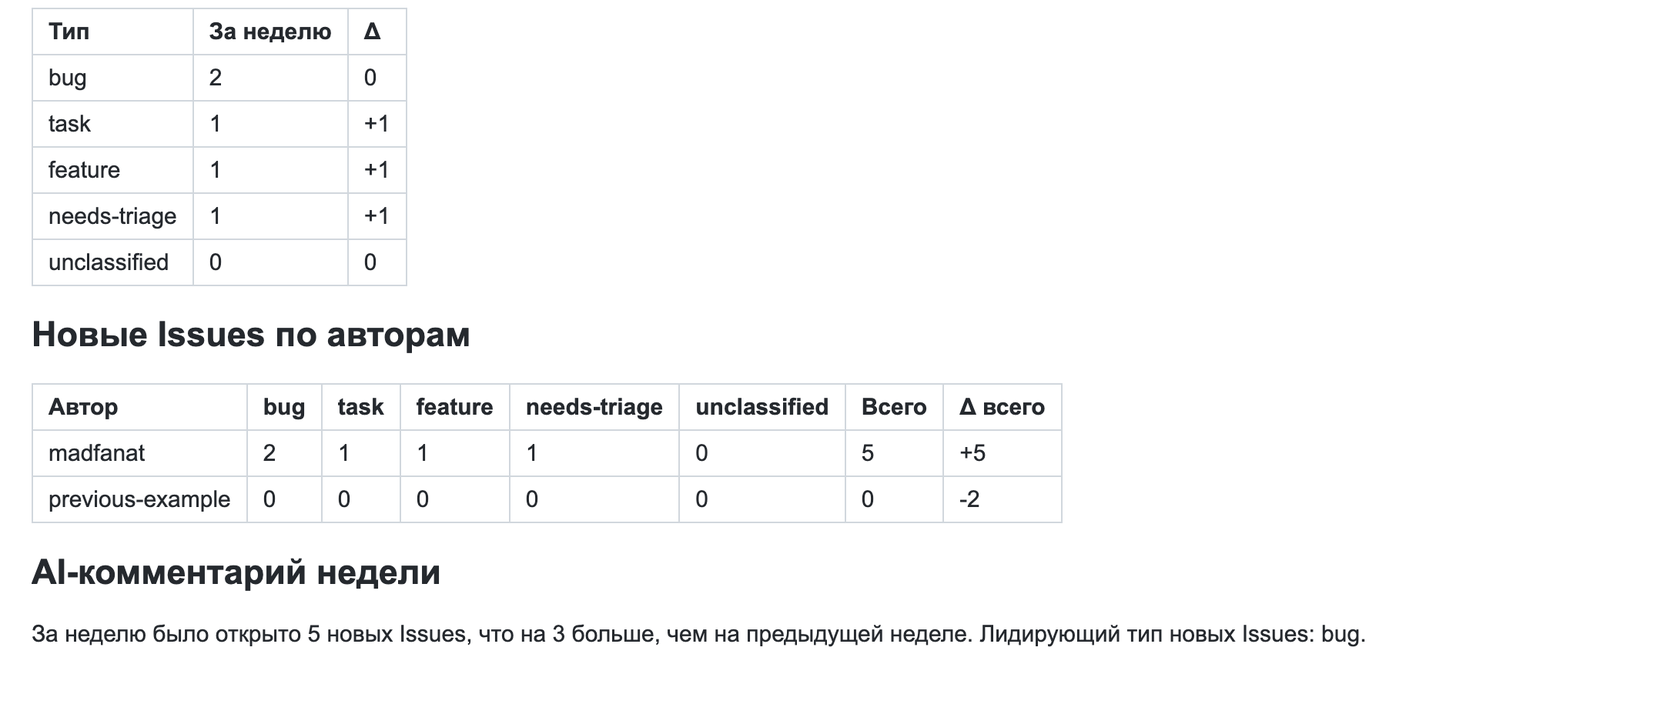
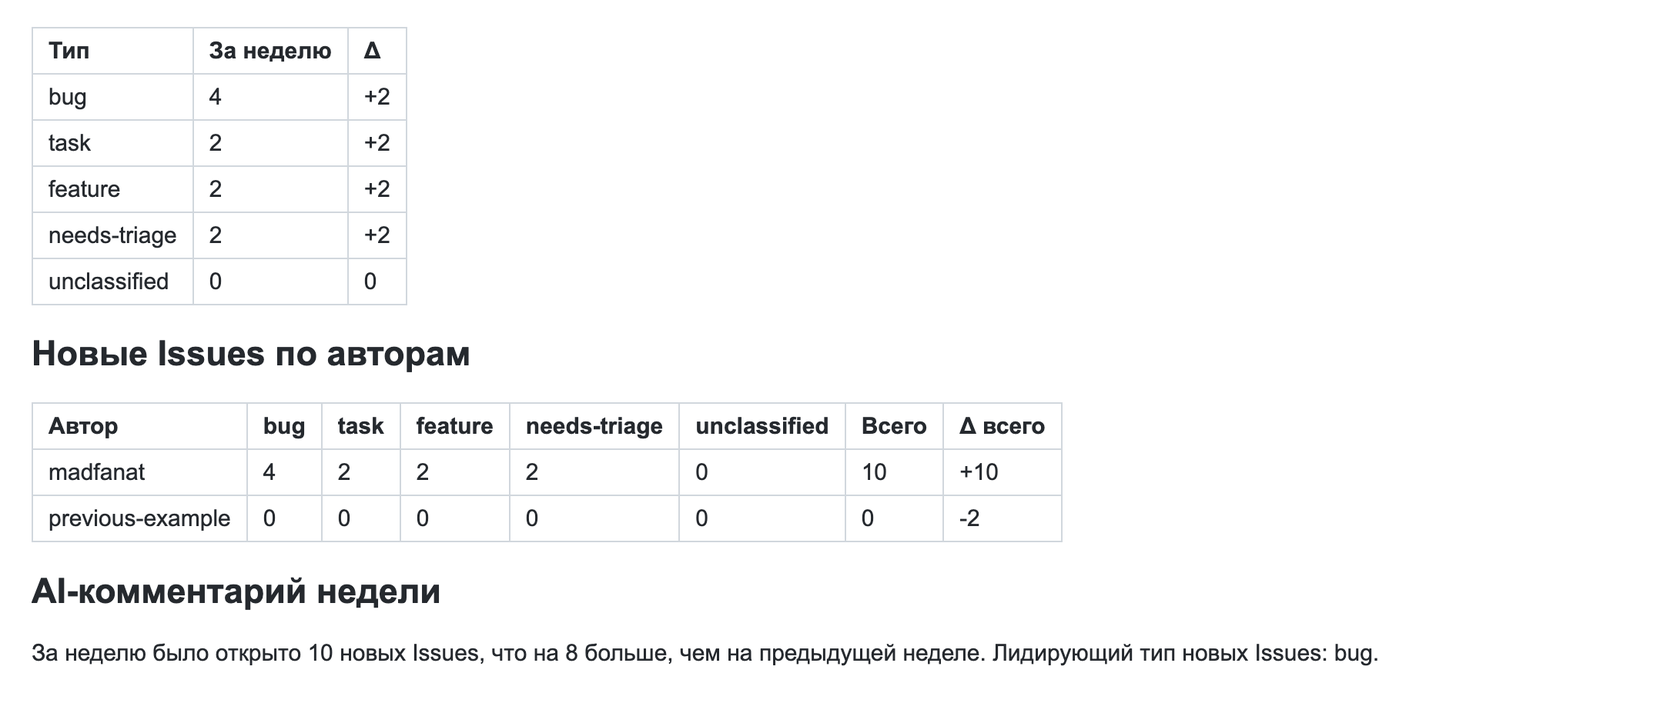
Verify published Issue triage and sandbox autofix

diff --git a/practices/practice_07.2/defence/README.md b/practices/practice_07.2/defence/README.md
@@ -1,49 +1,43 @@
 # Защита лабораторной 7.2
 
-[План работы](plan.md) · [Экспорты и подключение](../README.md#решение) · [Журнал контрольной проверки](evidence/verification.json)
+[План работы](plan.md) · [Экспорты и подключение](../README.md#решение) · [Журнал учебных запусков](evidence/hosted-verification.json)
 
-## Запуски на учебном n8n
-
-Классификатор опубликован и использует `openai/gpt-4.1-mini` через учебный VseLLM. Контрольный сценарий вызвал его через Execute Sub-workflow и получил `bug`, `task`, `feature` с уверенностью `0.9` и `unknown` с `0.7`. Structured Output Parser восстанавливает формат ответа при невалидном JSON. [Выход классификатора](evidence/hosted-classifier-8984-return-type-and-confidence.png) · [Журнал запусков](evidence/hosted-verification.json).
-
-Недельный отчёт опубликован с cron `0 9 * * MON` в `Europe/Moscow`. Execution 8988 выполнил четыре запроса к GitHub, сохранил текущую неделю, рассчитал Δ к помеченной тестовой строке и отправил письмо во входящие Gmail. За период открыто 5 Issues, Δ равна **+3**, самый частый тип — `bug` (2). [Execution 8988](https://n8n-itmo.cyrweb.ru/workflow/l3q27BriiWwP1aFq/executions/8988) · [Группировка](evidence/hosted-weekly-report-8988-group-by-type-and-author.png) · [Две строки Data Table](evidence/hosted-practice_072_weekly_stats.png) · [Письмо](evidence/hosted-gmail-report.png) · [AI-комментарий в письме](evidence/hosted-gmail-annotation.png).
+Все четыре сценария опубликованы на учебном n8n. Классификатор и автофикс используют `openai/gpt-4.1-mini` через VseLLM. GitHub отправляет подписанные события прямо на учебный webhook. Лейблы и ответы записываются через GitHub API. [Обработчик Issues](https://n8n-itmo.cyrweb.ru/workflow/L1cE4SoKVWNIb9iN) · [Классификатор](https://n8n-itmo.cyrweb.ru/workflow/mSEPpLZhCzCr6qxc) · [Недельный отчёт](https://n8n-itmo.cyrweb.ru/workflow/l3q27BriiWwP1aFq) · [Автофикс](https://n8n-itmo.cyrweb.ru/workflow/wn2DdRtmluI8DH5T).
 
 ## Девять критериев
 
 | № | Баллы | Что показать |
 | --- | ---: | --- |
-| 1 | 2 | GitHub Issues [№12 bug](https://github.com/madfanat/ITMOv2/issues/12), [№13 task](https://github.com/madfanat/ITMOv2/issues/13), [№14 feature](https://github.com/madfanat/ITMOv2/issues/14). В каждом один лейбл категории и один ответ. [Execution 11](evidence/issues-execution-11.png) · [Execution 13](evidence/issues-execution-13.png) · [Execution 15](evidence/issues-execution-15.png). |
-| 2 | 1 | У Issue [№15](https://github.com/madfanat/ITMOv2/issues/15) классификатор вернул `unknown` и `0.5`. Switch передал его в `needs-triage`. GitHub подтвердил 0 комментариев. [Execution 17](evidence/issues-execution-17-detail.png). |
-| 3 | 2 | В родительском `Execute classifier` видны входы `title` и `body`. В отдельном Execution 18 модель вернула `type` и `confidence`. Уверенные обращения получили категории с confidence `0.95`. [Execution 18](evidence/classifier-execution-18-detail.png). |
-| 4 | 2 | `Monday at 09:00` содержит cron `0 9 * * MON` и часовой пояс `Europe/Moscow`. [Настройка cron](evidence/weekly-report-execution-21-monday-at-09-00.png). Ручной Execution 21 выполнил выборки созданных Issues, закрытых Issues, мержей PR и комментариев к Issues. [Execution 21](evidence/weekly-report-execution-21.png). |
-| 5 | 2 | `Group by type and author` посчитал 4 новых Issues автора `madfanat`, по одному каждого типа. [Группировка](evidence/weekly-report-execution-21-group-by-type-and-author.png). |
-| 6 | 2 | `Send HTML via Gmail` вернул ID сообщения. Gmail подтвердил метку `INBOX`. [Письмо](evidence/gmail-report.png). |
-| 7 | 1 | `Save weekly snapshot` записал текущий снимок. В истории две строки с источниками `github` и `fixture`. [Data Table](evidence/practice_072_weekly_stats.png). |
-| 8 | 2 | Открыто 4 Issues, Δ **+2** к тестовой строке. По типам Δ равна −1 для `bug` и +1 для `task`, `feature` и `needs-triage`. [Письмо](evidence/gmail-report.png). |
-| 9 | 2 | `Summarize changes` передал модели числа по новым обращениям и Δ. В письме есть блок «AI-комментарий недели». [Таблица по авторам и AI-комментарий](evidence/gmail-report-annotation.png). |
+| 1 | 2 | GitHub Issues [№19 bug](https://github.com/madfanat/ITMOv2/issues/19), [№20 task](https://github.com/madfanat/ITMOv2/issues/20) и [№21 feature](https://github.com/madfanat/ITMOv2/issues/21) получили по одному лейблу категории и одному ответу. Уверенность модели — `0.9`. [Execution 8993](evidence/hosted-issues-8993.png) · [Execution 8996](evidence/hosted-issues-8996.png) · [Execution 9000](evidence/hosted-issues-9000.png). |
+| 2 | 1 | У Issue [№22](https://github.com/madfanat/ITMOv2/issues/22) классификатор вернул `unknown` и `0.7`. Ниже порога `0.8` Switch передал Issue в `needs-triage`. GitHub подтвердил 0 комментариев. [Execution 9001](evidence/hosted-issues-9001-apply-confidence-threshold.png). |
+| 3 | 2 | В родительском `Execute classifier` видны входы `title` и `body`. Дочернее выполнение 8994 вернуло `type` и `confidence`. Structured Output Parser восстанавливает невалидный JSON дополнительным вызовом модели. [Execution 8994](evidence/hosted-classifier-8994-return-type-and-confidence.png). |
+| 4 | 2 | Триггер использует cron `0 9 * * MON` и часовой пояс `Europe/Moscow`. Ручной запуск выполнил четыре выборки GitHub за семь дней. [Настройка cron](evidence/hosted-weekly-report-9019-monday-at-09-00.png) · [Execution 9019](evidence/hosted-weekly-report-9019.png). |
+| 5 | 2 | `Group by type and author` сгруппировал 10 новых Issues. По типам получилось 4 `bug`, по 2 `task`, `feature` и `needs-triage`. [Группировка](evidence/hosted-weekly-report-9019-group-by-type-and-author.png). |
+| 6 | 2 | Gmail вернул ID сообщения и метку `INBOX` для отправленного HTML. [Полученное письмо](evidence/hosted-gmail-report.png). |
+| 7 | 1 | `Save weekly snapshot` записал текущий снимок. В истории две строки с источниками `github` и `fixture`. [Data Table](evidence/hosted-practice_072_weekly_stats.png). |
+| 8 | 2 | В отчёте 10 новых Issues и Δ **+8** к тестовой строке. По категориям Δ равна **+2** для каждого из четырёх типов. [Таблица в письме](evidence/hosted-gmail-annotation.png). |
+| 9 | 2 | `Summarize changes` получил число новых Issues, Δ и лидирующий тип `bug`. В письме эти данные отражены в блоке «AI-комментарий недели». [AI-комментарий](evidence/hosted-gmail-annotation.png). |
 
-Повтор подписанной доставки Issue №12 завершился в `Skip duplicate` до вызова модели. В GitHub осталось по одному комментарию в трёх уверенных Issues. Обработка `author_association == NONE` проверена отдельно на локальных данных. [Execution 19](evidence/issues-execution-19-detail.png) · [Таблица обработанных Issues](evidence/practice_072_processed_issues.png).
+GitHub повторил доставку события Issue №19. Execution 9011 завершился в `Skip duplicate` до вызова модели, в Issue остался один комментарий. Обработка `author_association == NONE` проверена локальным тестом. [Повторная доставка](evidence/hosted-issues-9011-skip-duplicate.png) · [Таблица обработанных Issues](evidence/hosted-practice_072_processed_issues.png).
 
 ## Как показать на защите
 
-1. Откройте три уверенных Issue и №15. Сверьте лейблы и комментарии командой `make -C practices/practice_07.2/defence inspect`. Для нового прогона предусмотрены цели `open-bug`, `open-task`, `open-feature` и `open-unknown`.
-2. Откройте Execution 17, покажите порог `0.8` и ветку без ответа. Перейдите из `Execute classifier` в дочернее исполнение и покажите вход и результат.
-3. Откройте запланированный триггер и выполните отчёт через `Manual report`. В `Set report window` видны границы семи дней. В четырёх HTTP-нодах видны ответы GitHub, в Code node — счётчики по типам и авторам.
-4. Покажите `Read previous week`, две строки таблицы и письмо. Для нового стенда поместите [тестовые агрегаты](previous-week.json) как строку источника `fixture`. В `week_key` укажите `<репозиторий>|manual|<московская дата семь дней назад>`. Поля `window_start` и `window_end` описывают предшествующие семь дней в UTC.
-5. Запустите `make -C practices/practice_07.2/defence check` для восьми проверок экспортов. Они покрывают порог, пропуск повторов, пагинацию, границы дат, HTML и условия мержа.
+1. Откройте три уверенных Issue и №22. Сверьте лейблы и число комментариев командой `make -C practices/practice_07.2/defence inspect`. Для нового прогона есть цели `open-bug`, `open-task`, `open-feature` и `open-unknown`.
+2. Откройте Execution 9001, покажите порог `0.8` и ветку без ответа. Из `Execute classifier` перейдите в дочернее исполнение и покажите вход и результат. В Execution 9011 покажите, что повторная доставка завершилась до вызова классификатора. [Execution 9001](https://n8n-itmo.cyrweb.ru/workflow/L1cE4SoKVWNIb9iN/executions/9001) · [Execution 9011](https://n8n-itmo.cyrweb.ru/workflow/L1cE4SoKVWNIb9iN/executions/9011).
+3. Откройте запланированный триггер и запустите `Manual report`. В `Set report window` отображаются границы семи дней. В четырёх HTTP-нодах видны ответы GitHub, в Code node — группировка. [Execution 9019](https://n8n-itmo.cyrweb.ru/workflow/l3q27BriiWwP1aFq/executions/9019).
+4. Покажите `Read previous week`, две строки таблицы и письмо. Для нового стенда используйте [тестовые агрегаты](previous-week.json) как строку с источником `fixture`. В `week_key` укажите `<репозиторий>|manual|<московская дата семь дней назад>`. Поля `window_start` и `window_end` описывают предшествующие семь дней в UTC.
+5. Запустите `make -C practices/practice_07.2/defence check`. Восемь проверок экспортов покрывают порог, пропуск повторов, пагинацию, границы дат, HTML и условия мержа.
 
 ## Сверхрезультат
 
-[Issue №16](https://github.com/madfanat/ITMOv2/issues/16) описывает функциональный дефект `sum([])`. После классификации обработчик передал номер Issue в `Execute sandbox bugfix`. Execution 24 получил исходник из отдельного репозитория, сгенерировал одну строку, проверил её форму и четыре примера, создал отдельную ветку и PR. Вторая AI-цепочка проверила diff. Сценарий опубликовал ревью и смёрджил проверенный head в `main`. На исходном коммите тест пустого массива падал с `TypeError`, на смёрдженном прошли четыре теста. [Execution 24](evidence/bugfix-execution-24.png) · [Результат слияния](evidence/bugfix-execution-24-confirm-github-merge.png) · [Смёрдженный PR](https://github.com/madfanat/itmo-practice-072-demo/pull/1).
+[Issue №23](https://github.com/madfanat/ITMOv2/issues/23) описывает функциональный дефект `sum([])`. Обработчик передал номер Issue в `Execute sandbox bugfix`. Execution 9016 получил исходник из отдельного репозитория, сгенерировал одну строку, проверил её форму и четыре примера, создал ветку и PR. Вторая AI-цепочка проверила diff. Сценарий опубликовал ревью и смёрджил проверенный head в `main`. На исходном коммите `c00b4f9` тест пустого массива падал с `TypeError`. На смёрдженном коммите `6402ca1` прошли четыре теста. [Execution 9016](evidence/hosted-bugfix-9016.png) · [Подтверждение мержа](evidence/hosted-bugfix-9016-confirm-github-merge.png) · [Смёрдженный PR](https://github.com/madfanat/itmo-practice-072-demo/pull/2).
 
-PR меняет только `src/sum.mjs` в изолированном деморепозитории. Повторить демонстрацию можно на состоянии до фикса `cd1a7a23` в новом деморепозитории, привязав его в URL нод сценария.
+PR изменил только `src/sum.mjs` в изолированном деморепозитории. На учебном n8n вход в ветку автофикса разрешён только для Issue с нужным префиксом от владельца репозитория. В импорте ветка включается явно. Повторить демонстрацию можно на исходном коммите `c00b4f9` в новом деморепозитории, обновив URL нод сценария.
 
-## Условия прогона
+## Учётные данные и предыдущая проверка
 
-Первые прогоны выполнены в локальном n8n 2.40 с Qwen 3.5 4B через Ollama. Подписанные события передали из GitHub API на loopback с сохранением оригинальной подписи. При локальном прогоне запись в GitHub выполнял ограниченный адаптер авторизованного GitHub CLI. Экспорты подключаются напрямую к GitHub API с подходящей credential. Gmail подключён через отдельный OAuth-клиент проекта `itmo-515522` с областью `gmail.send`. Адрес получателя задаётся в ноде Gmail и отсутствует в выходных данных агрегации.
+Два GitHub-токена хранятся в учебном n8n. Credential `ITMO 7.2 Issues and webhooks` ограничена форком `ITMOv2` и правами записи Issues и Webhooks. Credential `ITMO 7.2 isolated autofix` ограничена деморепозиторием и правами записи Contents и Pull requests. История старого локального webhook сохранена, сам дубль отключён. Gmail подключён с областью `gmail.send`. Адрес получателя задаётся в ноде Gmail, за пределами выходных данных агрегации.
 
-Пока локальный экземпляр запущен, можно открыть исполнение [классификатора](http://127.0.0.1:15679/workflow/Zf8nUj3xMsQr5kvd/executions/18), [обработчика Issues](http://127.0.0.1:15679/workflow/j2lNHrZDd8awlUdU/executions/17) и [недельного отчёта](http://127.0.0.1:15679/workflow/Kho7xQFkBo4SaDsM/executions/21).
+Gmail OAuth обновлён 25 ноября 2026 года. Первый плановый запуск 30 ноября в 09:00 по Москве попадает в семидневный период авторизации. OAuth-приложение Google работает в режиме Testing, в котором refresh token действует семь дней. [Правила Google OAuth](https://developers.google.com/identity/protocols/oauth2#expiration).
 
-На учебном n8n подключены `ITMO 7.2 VseLLM` и `ITMO 7.2 Gmail`. Обработчик Issues и автофикс подготовлены к публикации. Для них требуются отдельные GitHub credentials с правами записи в соответствующих репозиториях. [Обработчик Issues](https://n8n-itmo.cyrweb.ru/workflow/L1cE4SoKVWNIb9iN) · [Классификатор](https://n8n-itmo.cyrweb.ru/workflow/mSEPpLZhCzCr6qxc) · [Недельный отчёт](https://n8n-itmo.cyrweb.ru/workflow/l3q27BriiWwP1aFq) · [Автофикс](https://n8n-itmo.cyrweb.ru/workflow/wn2DdRtmluI8DH5T).
-
-Снимки сделаны в интерфейсах n8n и Gmail во время проверки. История и сценарий для повторного запуска доступны в [журнале](evidence/verification.json) и [Makefile](Makefile).
+До публикации выполнялась проверка на локальном n8n 2.40 с Qwen 3.5 4B через Ollama. Подписанные доставки тогда поступали на loopback, запись в GitHub выполнял авторизованный GitHub CLI. [Журнал локальной проверки](evidence/verification.json) · [Локальные Issues №12–15](https://github.com/madfanat/ITMOv2/issues?q=is%3Aissue+%22Демо+7.2%22) · [Первый PR автофикса](https://github.com/madfanat/itmo-practice-072-demo/pull/1).
